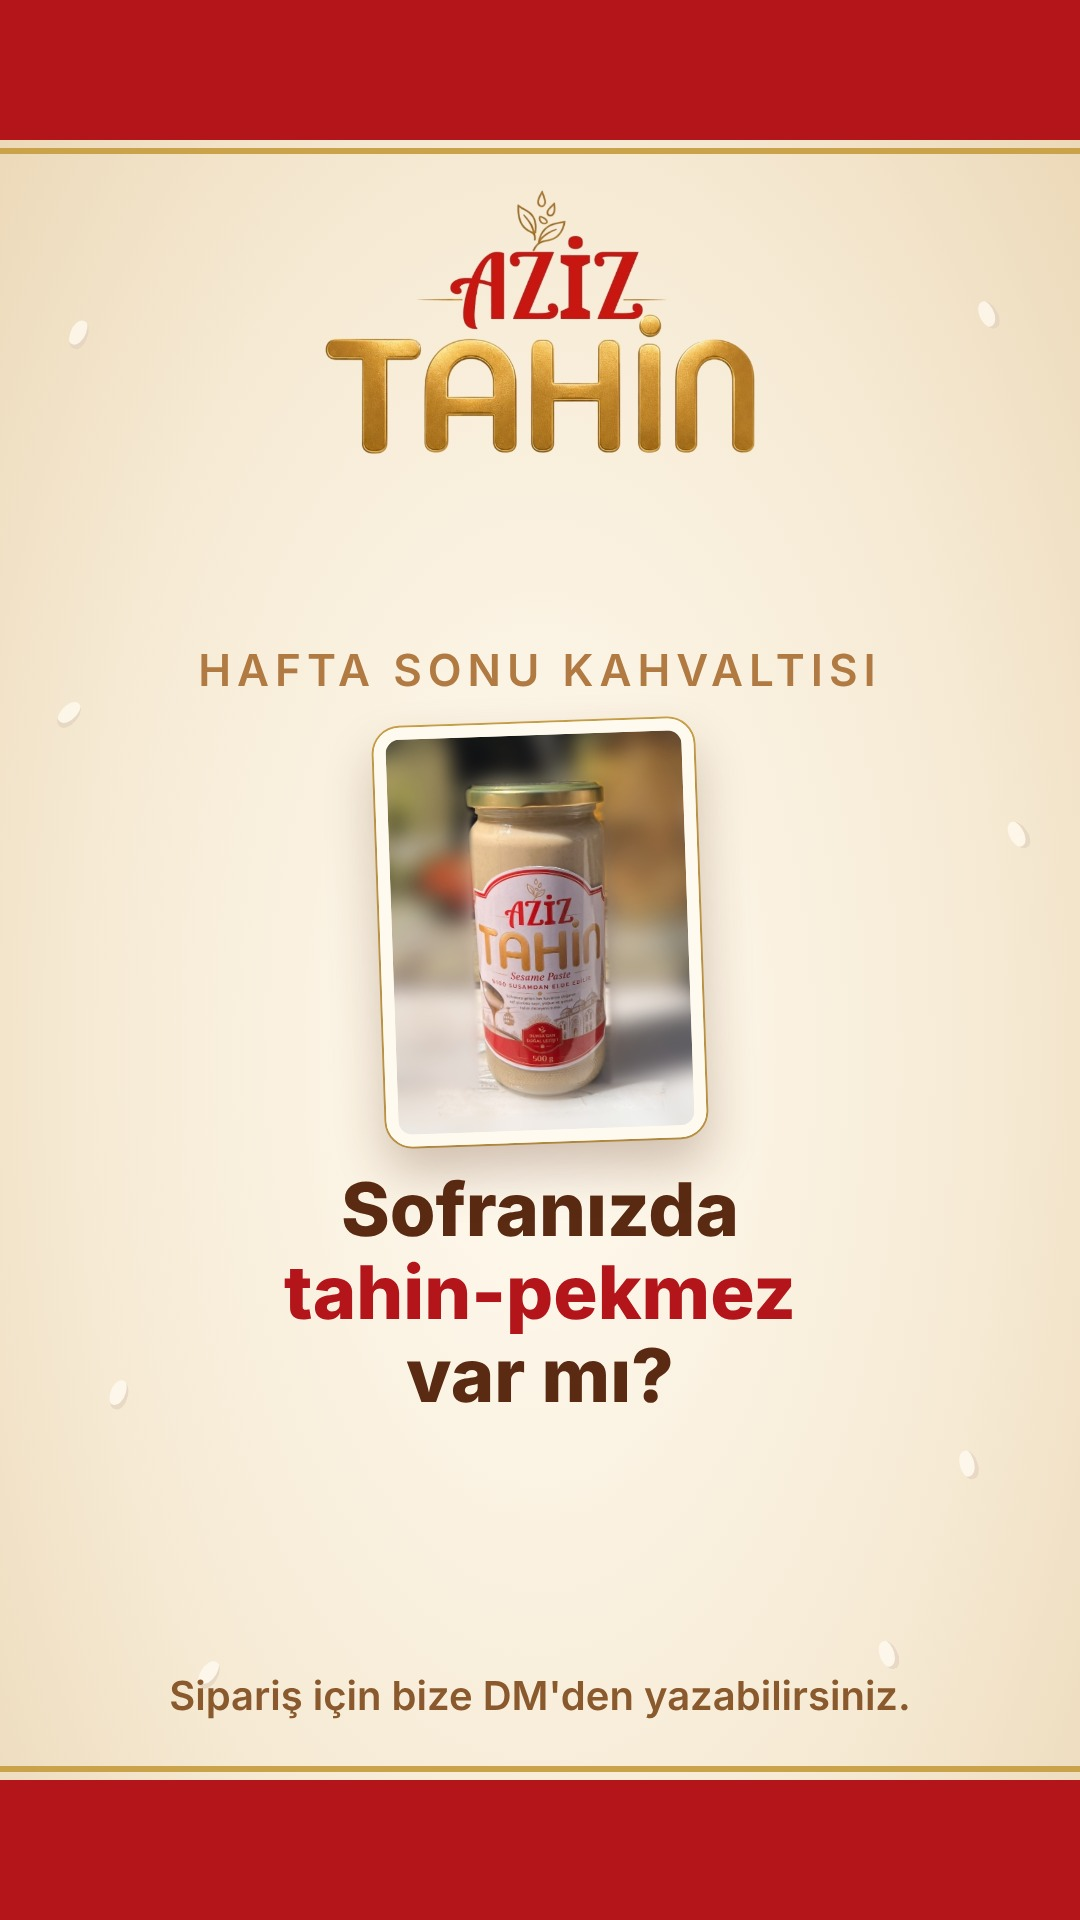
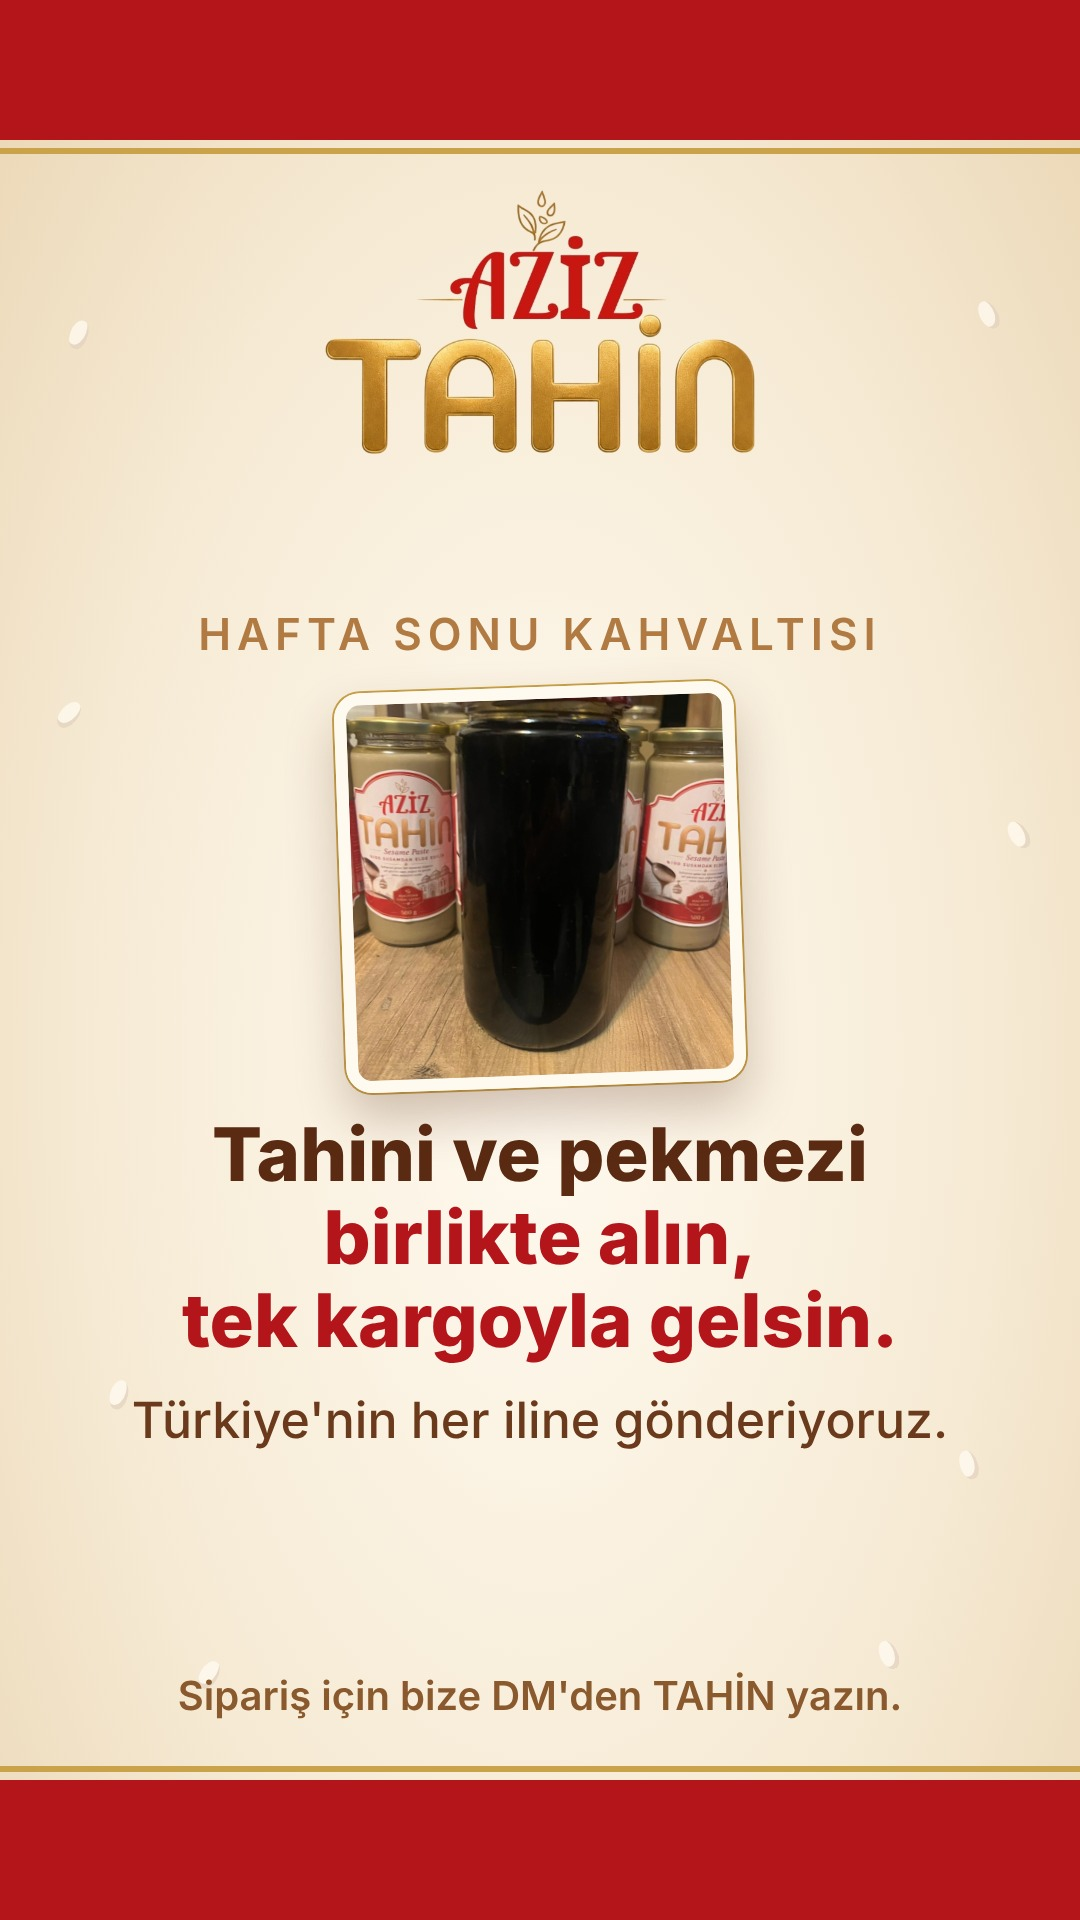
27-30 Kasım hikâyeleri satış odaklı yenilendi (#149)
Claude-Session: https://claude.ai/code/session_01LbgBc4wPXWRgFMDuR8TYQV

Changed region(s): [[0.1222, 0.3125, 0.8556, 0.75], [0.1528, 0.875, 0.825, 0.9062]]

diff --git a/.claude/instagram/voice.md b/.claude/instagram/voice.md
@@ -297,3 +297,11 @@ asla uydurmaz.
   Varsayılan sipariş çağrısı DM'dir ("Sipariş için bize DM'den yazın").
   Bir link kastediliyorsa adıyla söylenir (ör. "profildeki Trendyol
   linkinden").
+
+## Hikâye kuralı (26 Kasım)
+
+Kullanıcı "ballı tahin: 3 kaşık tahin, 1 kaşık bal" hikâyesini yetersiz buldu:
+satışa yönlendirmiyor, yeni bir şey sunmuyor. Her hikâye iki şeyi birden yapar:
+1. Okura yeni bir bilgi, seçenek ya da sebep verir (hangi boy, birlikte sipariş,
+   yeni kullanım, dükkâna gelme nedeni). Herkesin bildiği tarif tek başına yetmez.
+2. Net bir satış çağrısıyla biter: "Sipariş için bize DM'den TAHİN yazın."
